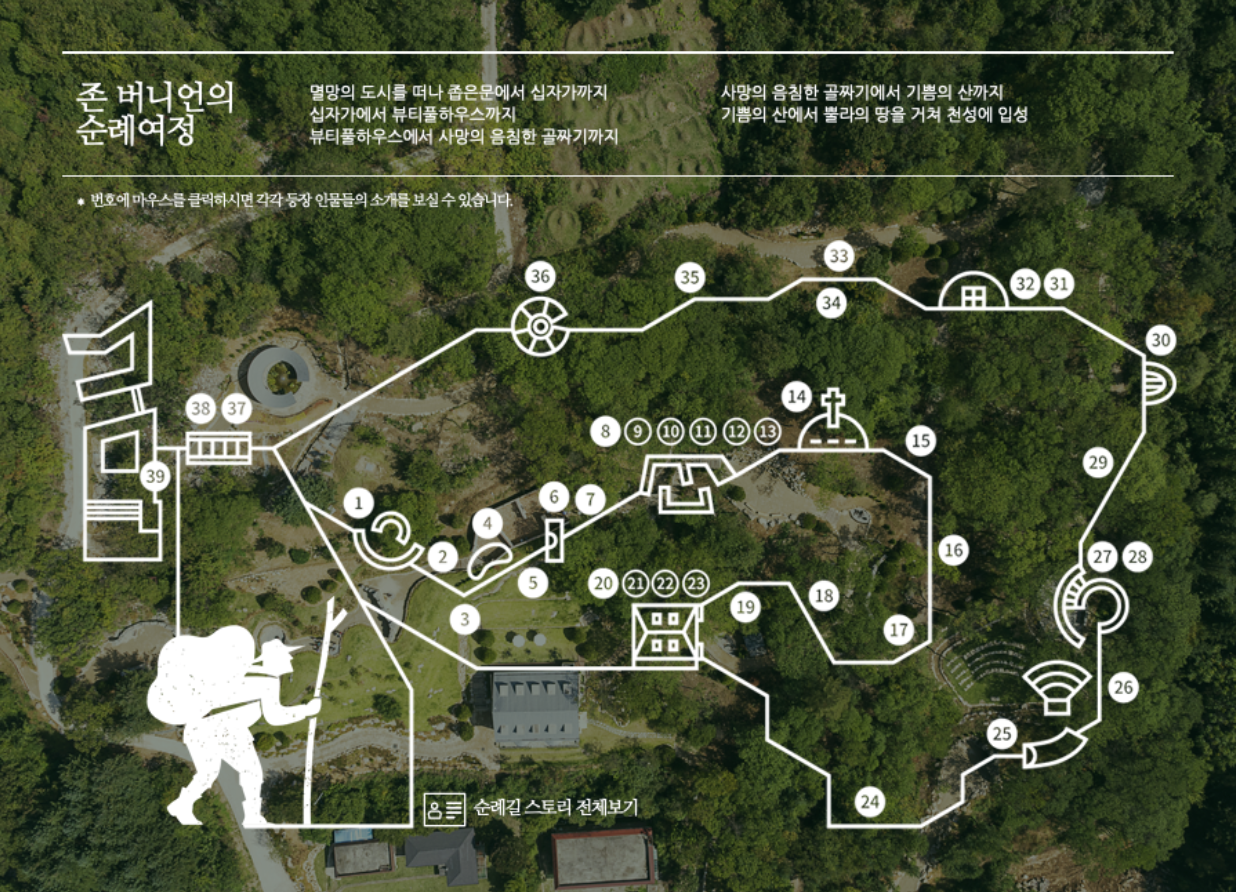
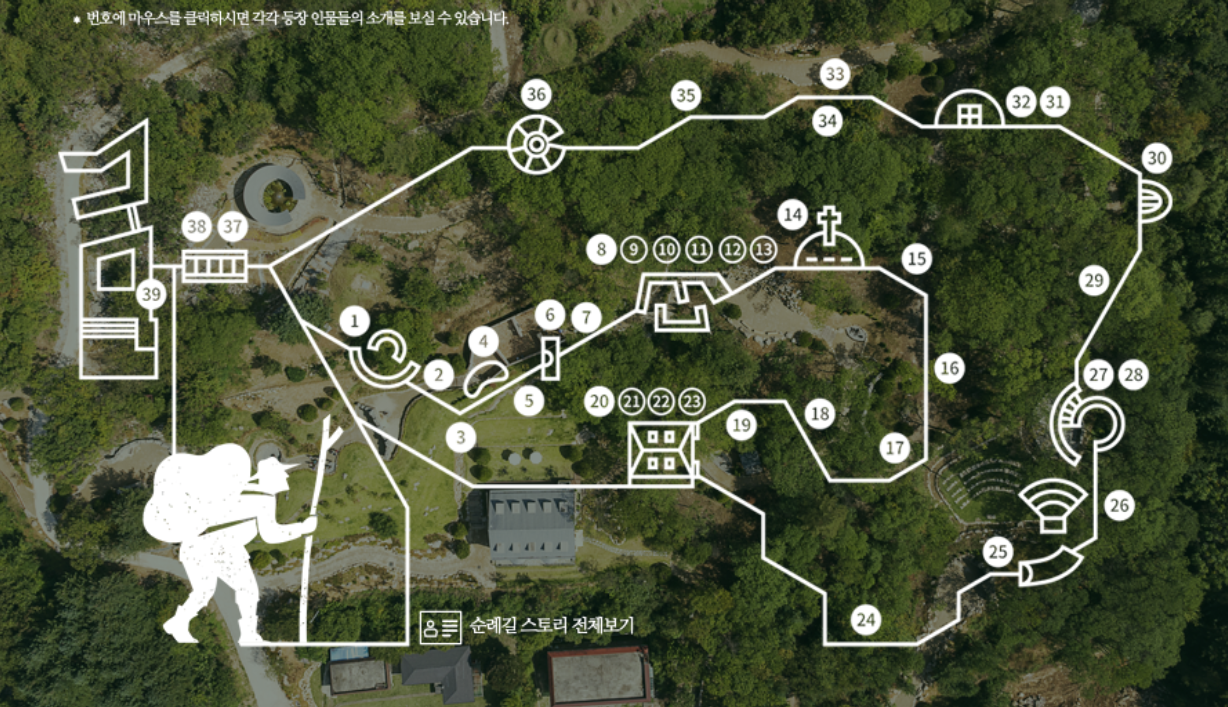
feat: BBB MISSION 2·3 추가, H&P 뽑기권 카드 서버 연동, 채팅방 탭 설정 추가
- BBB MISSION 2: H&P 케어버디 기도 인증 사진 업로드 (뽑기권 +1)
- BBB MISSION 3: 천로역정 7스팟 지도 인증 (뽑기권 +1, 7곳 모두 채웠을 때)
- H&P 뽑기권 표시: 서버 HPGuesses 시트 기반으로 정확한 카드 인덱스 결정
- 채팅방 탭 활성화 설정 (B5) 추가
- 탭 설정 패널 독립 분리, 이름 정리
- K-translate 서브모듈 관련 코드 제거
- 버전: 20260507zf

diff --git a/beyond_us/index.html b/beyond_us/index.html
@@ -2628,11 +2628,11 @@
                 </div>
               </div>
 
-              <!-- MISSION 3: 필그림하우스 스팟 5곳 -->
+              <!-- MISSION 3: 필그림하우스 스팟 7곳 -->
               <div style="background:var(--primary-soft);border-radius:14px;padding:18px 20px;border-left:3px solid #86efac;">
                 <span style="font-size:10px;font-weight:700;color:var(--primary);letter-spacing:0.12em;">MISSION 3</span>
-                <p style="font-size:14px;font-weight:700;color:var(--text);margin:8px 0 3px;">천로역정 5스팟 인증</p>
-                <p style="font-size:12px;color:var(--sub);margin:0 0 4px;">5곳 모두 채우면 뽑기권 +1</p>
+                <p style="font-size:14px;font-weight:700;color:var(--text);margin:8px 0 3px;">천로역정 7스팟 인증</p>
+                <p style="font-size:12px;color:var(--sub);margin:0 0 4px;">7곳 모두 채우면 뽑기권 +1</p>
                 <p style="font-size:12px;font-weight:700;color:#e25;margin:0 0 8px;">⚠️ 일요일(6/21)에만 입장 가능해요!</p>
                 <p id="bbbM3Status" style="font-size:12px;color:var(--primary);margin:0 0 10px;min-height:16px;font-weight:600;"></p>
                 <!-- 지도 + 스팟 오버레이 -->
@@ -2723,7 +2723,7 @@
     }
 
     /* ── 버전 체크 (PWA 캐시 강제 갱신) ── */
-    const APP_VERSION = '20260507ze';
+    const APP_VERSION = '20260507zf';
     (function checkVersion() {
       fetch('./version.txt?_=' + Date.now(), { cache: 'no-store' })
         .then(r => r.text())
@@ -5551,11 +5551,13 @@
 
     /* ── MISSION 3 ── */
     const BBB_M3_SPOTS = [
-      { label: '좁은문',      top: 57, left: 43 }, // #6
-      { label: '십자가',      top: 46, left: 62 }, // #14
-      { label: '뷰티풀하우스', top: 70, left: 47 }, // #20~23
-      { label: '기쁨의 산',   top: 27, left: 69 }, // #33~34
-      { label: '천성',        top: 62, left: 11 }, // #39
+      { label: '좁은문',          top: 57, left: 43 }, // #6
+      { label: '십자가',          top: 46, left: 62 }, // #14
+      { label: '뷰티풀하우스',    top: 70, left: 47 }, // #20~23
+      { label: '사망의 음침한 골짜기', top: 75, left: 68 }, // #25
+      { label: '기쁨의 산',       top: 27, left: 69 }, // #33~34
+      { label: '뿔라의 땅',       top: 28, left: 40 }, // #36
+      { label: '천성',            top: 62, left: 11 }, // #39
     ];
 
     function _bbbRenderM3Spots(photos, m3Rewarded) {
@@ -5577,12 +5579,12 @@
       const filled = photos.filter(Boolean).length;
       const statusEl = document.getElementById('bbbM3Status');
       if (statusEl) {
-        statusEl.textContent = m3Rewarded ? '✓ 뽑기권 획득 완료' : filled > 0 ? `${filled}/5 완료` : '';
+        statusEl.textContent = m3Rewarded ? '✓ 뽑기권 획득 완료' : filled > 0 ? `${filled}/7 완료` : '';
         statusEl.style.color = m3Rewarded ? 'var(--sub)' : 'var(--primary)';
       }
     }
     function _bbbInitMission3(bbbRes) {
-      _bbbRenderM3Spots(bbbRes.myPhotoM3 || [null,null,null,null,null], bbbRes.m3Rewarded);
+      _bbbRenderM3Spots(bbbRes.myPhotoM3 || [null,null,null,null,null,null,null], bbbRes.m3Rewarded);
     }
     async function bbbM3Upload(spotIdx, input) {
       const file = input.files[0];
@@ -5594,7 +5596,7 @@
         const base64 = await _compressImage(file, 400, 0.55);
         const res = await (await fetch(API_BASE, { method: 'POST', headers: { 'Content-Type': 'text/plain' }, body: JSON.stringify({ action: 'uploadBBBPhoto', userId: nickname, photo: base64, missionType: 'm3_' + spotIdx }), redirect: 'follow' })).json();
         if (res.ok) {
-          if (_bbbData) { _bbbData.myPhotoM3 = _bbbData.myPhotoM3 || [null,null,null,null,null]; _bbbData.myPhotoM3[spotIdx] = base64; if (res.rewarded) _bbbData.m3Rewarded = true; }
+          if (_bbbData) { _bbbData.myPhotoM3 = _bbbData.myPhotoM3 || [null,null,null,null,null,null,null]; _bbbData.myPhotoM3[spotIdx] = base64; if (res.rewarded) _bbbData.m3Rewarded = true; }
           _bbbRenderM3Spots(_bbbData ? _bbbData.myPhotoM3 : [], res.rewarded || (_bbbData && _bbbData.m3Rewarded));
           stopAnimDots(dotsTimer, statusEl, '');
           if (res.rewarded) { loadUserStatus(); }